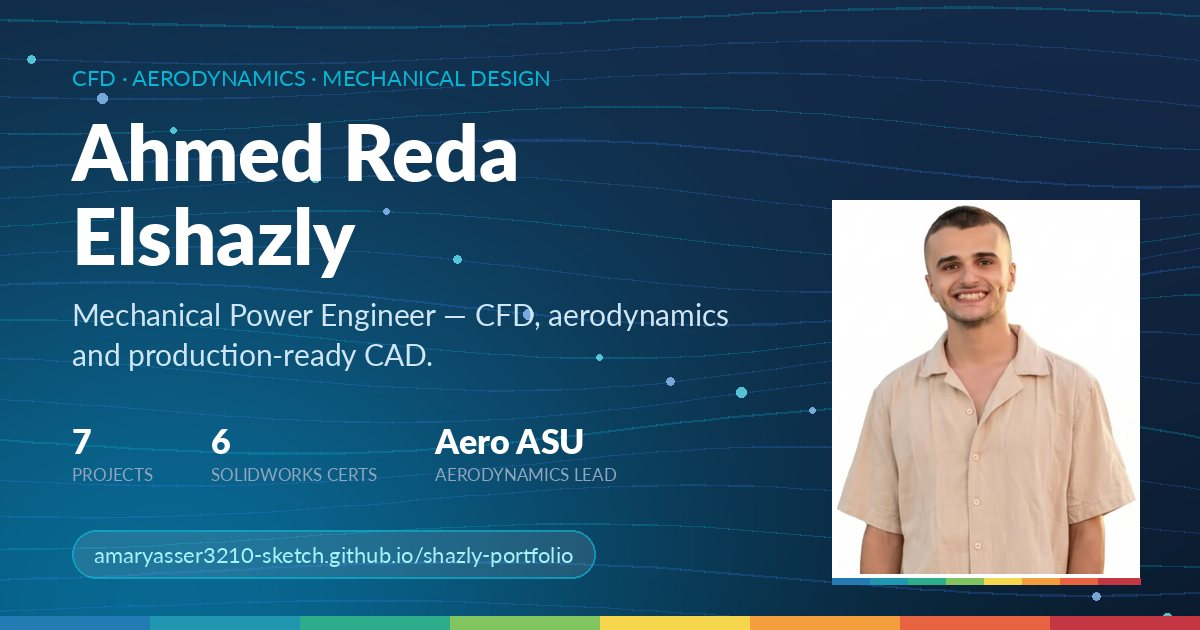
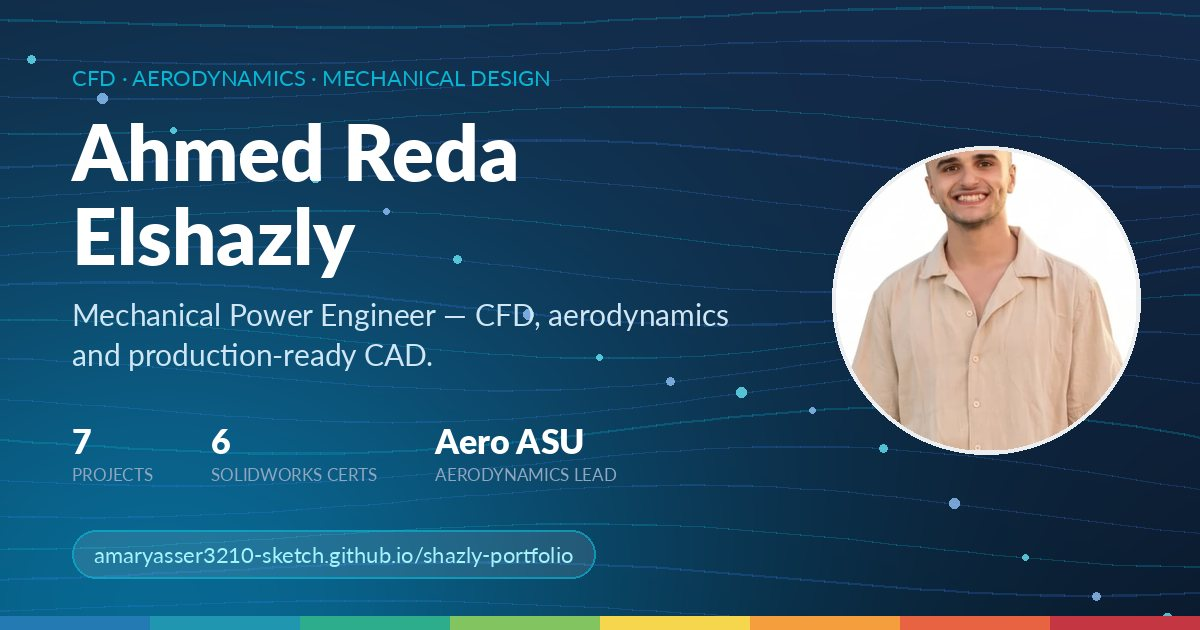
Circular hero portrait, remove rainbow strip; match og-image

Changed region(s): [[0.6783, 0.2111, 0.9558, 0.9349]]

diff --git a/css/styles.css b/css/styles.css
@@ -140,18 +140,17 @@ a:hover { text-decoration: underline; }
 
 .hero-portrait { position: relative; justify-self: center; }
 .portrait-frame {
-  position: relative; border-radius: 20px; overflow: hidden;
-  border: 1px solid rgba(255, 255, 255, 0.16);
-  box-shadow: 0 30px 80px rgba(0, 0, 0, 0.55);
-  background: #0e1a2c; max-width: 360px;
+  position: relative; width: min(360px, 100%); aspect-ratio: 1 / 1;
+  border-radius: 50%; overflow: hidden;
+  border: 2px solid rgba(255, 255, 255, 0.22);
+  box-shadow: 0 30px 80px rgba(0, 0, 0, 0.55), 0 0 0 10px rgba(6, 182, 212, 0.10);
+  background: #0e1a2c;
 }
-.portrait-frame img { width: 100%; height: auto; }
-.portrait-bar {
-  position: absolute; left: 0; right: 0; bottom: 0; height: 6px;
-  background: linear-gradient(90deg, #2563eb, #06b6d4, #22c55e, #facc15, #f97316, #ef4444);
+.portrait-frame img {
+  width: 100%; height: 100%; object-fit: cover; object-position: center 22%;
 }
 .portrait-tag {
-  position: absolute; left: -14px; bottom: 26px;
+  position: absolute; left: -14px; bottom: 8px;
   background: var(--ink); color: var(--cyan); border: 1px solid rgba(6, 182, 212, 0.4);
   font-family: var(--mono); font-size: 0.72rem; letter-spacing: 0.12em;
   text-transform: uppercase; padding: 8px 14px; border-radius: 8px;

diff --git a/index.html b/index.html
@@ -52,7 +52,6 @@
       <div class="hero-portrait">
         <div class="portrait-frame">
           <img id="heroPortrait" src="assets/portrait.webp" alt="Ahmed Reda Elshazly">
-          <span class="portrait-bar" aria-hidden="true"></span>
         </div>
         <div class="portrait-tag">CFD &amp; aerodynamics</div>
       </div>
